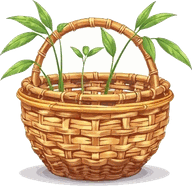
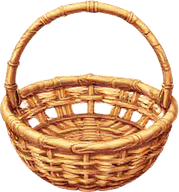
Calmer card back, clean empty basket

diff --git a/sw.js b/sw.js
@@ -1,5 +1,5 @@
 // Offline cache: core files precached, everything else (art/, voice/) cached on first use.
-const V='kitsune-v2.0.2';
+const V='kitsune-v2.0.3';
 const CORE=['./','index.html','style.css','temple.css','pets.css','scenes.css','ui.css','pets.js','scenes.js','game.js','icons.js','feel.js','profile.js','frags.js','monet.js','events.js','i18n.js','manifest.json','icons/icon-192.png','icons/icon-512.png'];
 self.addEventListener('install',e=>{e.waitUntil(caches.open(V).then(c=>c.addAll(CORE)).then(()=>self.skipWaiting()))});
 self.addEventListener('activate',e=>{e.waitUntil(caches.keys().then(ks=>Promise.all(ks.filter(k=>k!==V).map(k=>caches.delete(k)))).then(()=>self.clients.claim()))});

diff --git a/art/_src/gen_batch5.py b/art/_src/gen_batch5.py
@@ -18,8 +18,8 @@ JOBS = [
   ("ev/lantern.png", "glowing red japanese paper lantern, cute game item" + SPR, 512, 512, "sprite", 521),
   ("ev/lantern_gold.png", "glowing golden japanese paper lantern with sparkles, cute game item" + SPR, 512, 512, "sprite", 522),
   ("ev/thorn.png", "spiky brown chestnut burr with angry little eyes, cute game hazard item" + SPR, 512, 512, "sprite", 523),
-  ("ev/basket.png", "woven bamboo basket, front view, cute game item" + SPR, 512, 512, "sprite", 524),
-  ("ev/card_back.png", "ornate japanese playing card back, red lacquer with golden koi and wave pattern, rectangular card, front view" + SPR, 512, 704, "sprite", 525),
+  ("ev/basket.png", "empty round woven bamboo basket with two small handles, nothing inside, no plants, no leaves, front view, cute game item" + SPR, 512, 512, "sprite", 624),
+  ("ev/card_back.png", "minimal elegant card back, soft muted teal paper texture, thin cream border, small simple koi silhouette emblem in the center, subtle wave lines, calm low contrast, no text, no letters, rectangular card, front view" + SPR, 512, 704, "sprite", 625),
 ]
 
 def main():
